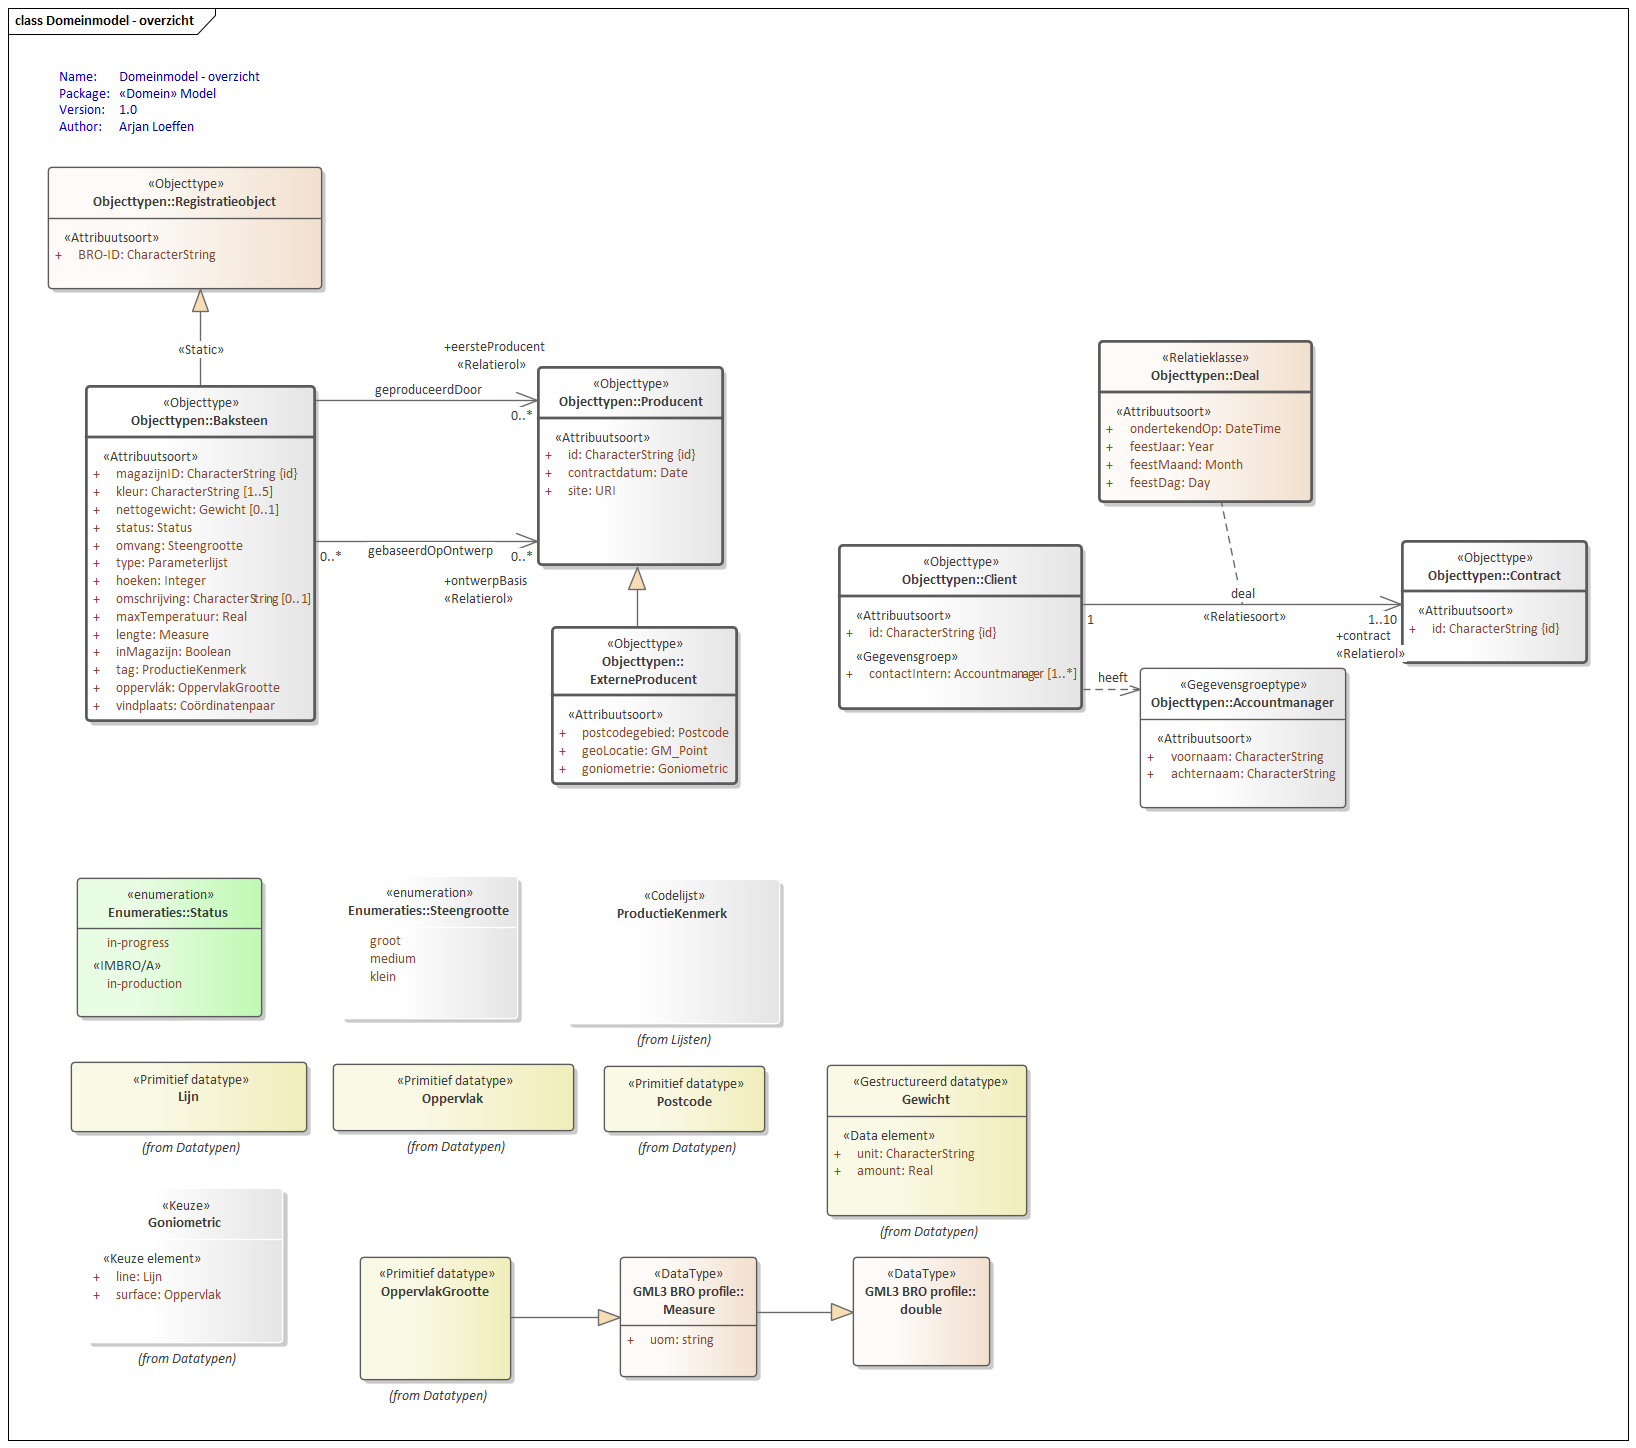
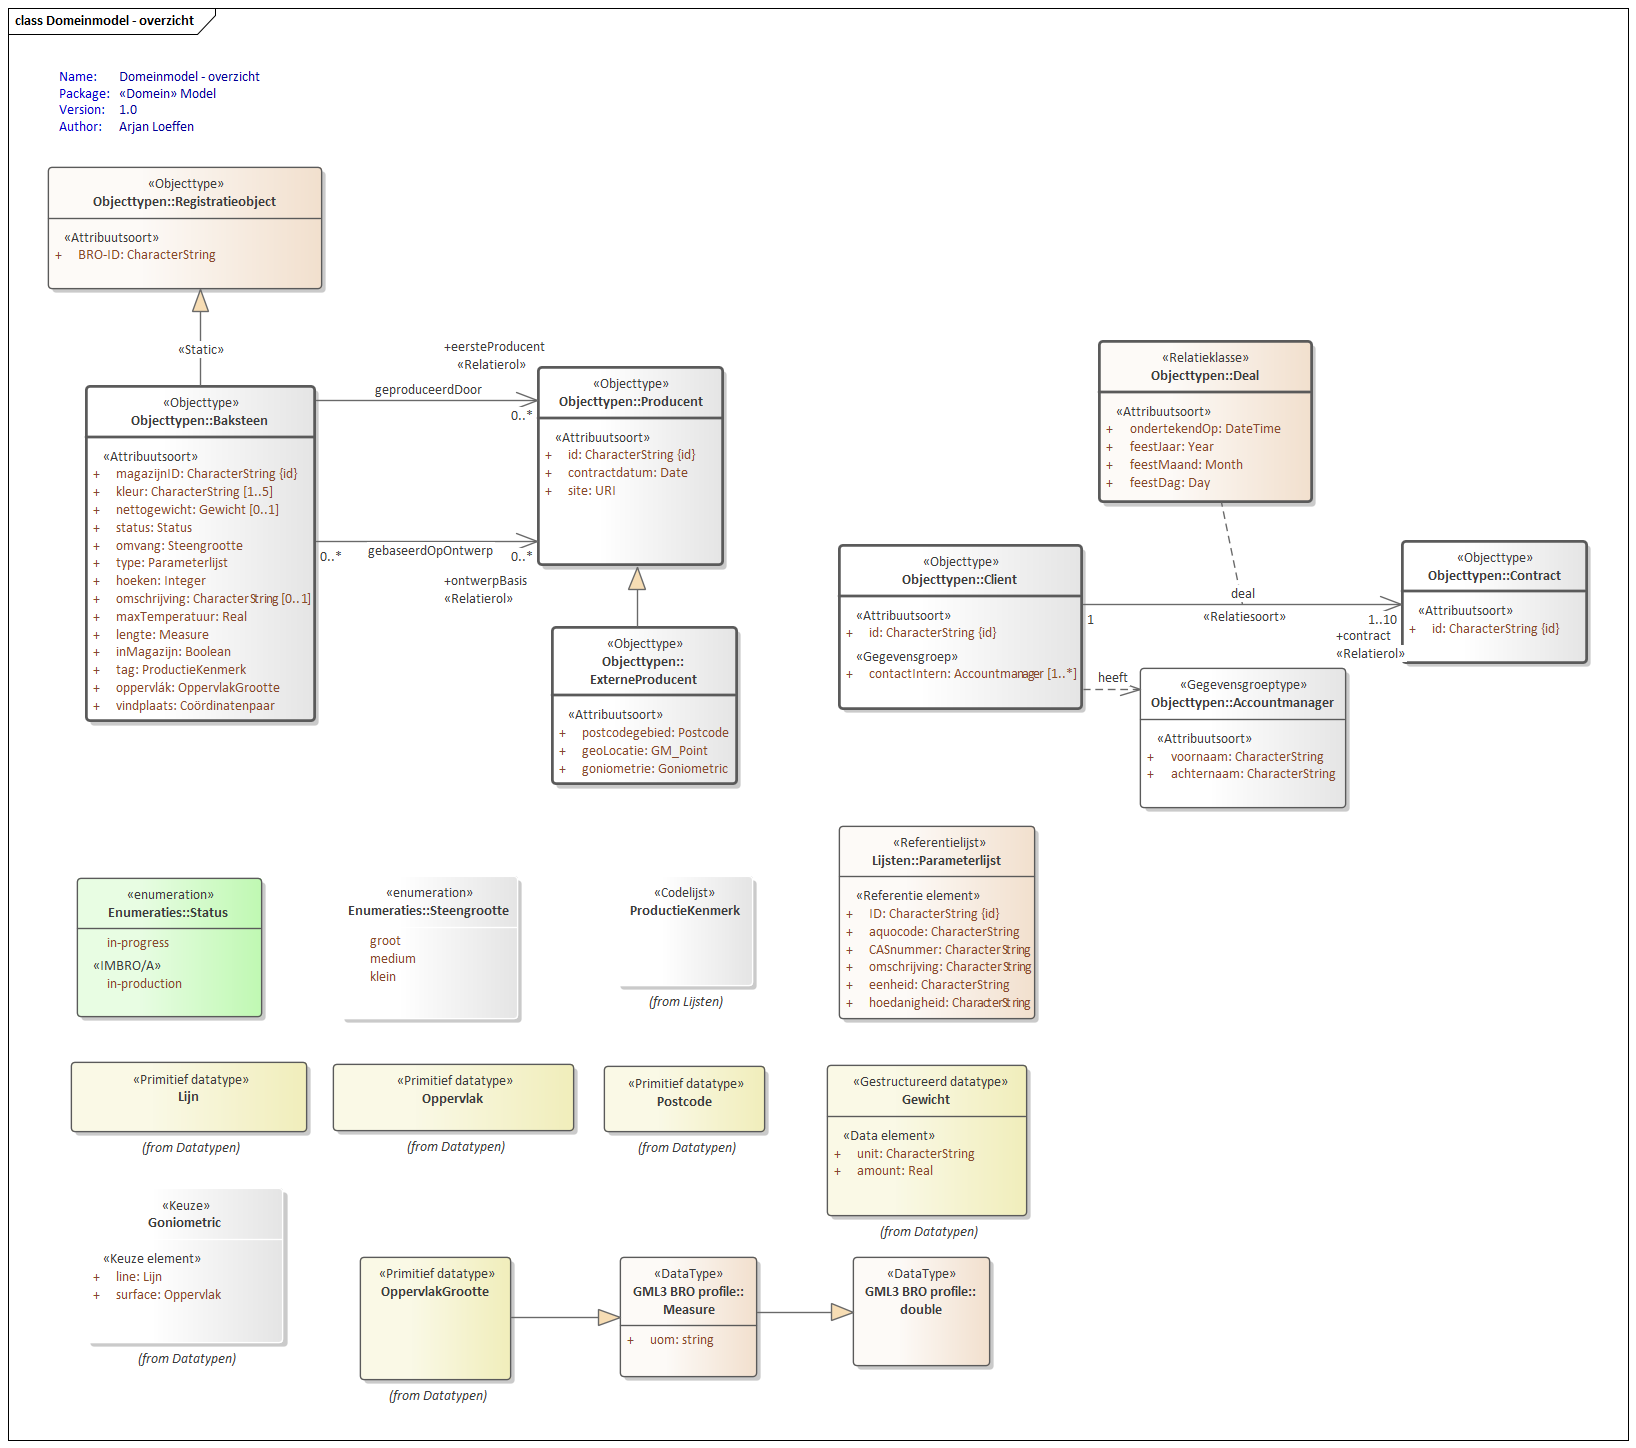
Conceptualmodel-SampleBaseSAMPLE-1.0.0-2-20130318-20200321-095228

Changed region(s): [[0.53, 0.5594, 0.6546, 0.7148], [0.3741, 0.5905, 0.4988, 0.7459]]

diff --git a/data/SAMPLE-cat.msword.html b/data/SAMPLE-cat.msword.html
@@ -13,7 +13,7 @@
    <body>
       <p>Conceptual model/SampleBase (SAMPLE)/20130318</p>
       <p>Imvertor: 1.59.3</p>
-      <p>Model release: Conceptualmodel-SampleBaseSAMPLE-1.0.0-2-20130318-20200320-155542</p>
+      <p>Model release: Conceptualmodel-SampleBaseSAMPLE-1.0.0-2-20130318-20200321-095228</p>
       <hr>
       <section>
          <h1>Artikel 1 Definitie van registratieobject, entiteiten en attributen</h1>
@@ -54,8 +54,9 @@
             <h2>Het domeinmodel</h2>
             <section id="">
                <div class="imageinfo overview"><img src="Images/EAID_08513AA0_8A50_46c1_AD86_9B80D9A6AAE1.png" usemap="#imagemap-EAID_08513AA0_8A50_46c1_AD86_9B80D9A6AAE1" alt="Diagram Overzicht van alle constructies in dit conceptuele model."><map name="imagemap-EAID_08513AA0_8A50_46c1_AD86_9B80D9A6AAE1">
+                     <area shape="rect" alt="ProductieKenmerk" coords="616,876,753,986" href="#graph_EAID_4D78F0AD_88ED_44ef_9A76_163426CD74D1">
+                     <area shape="rect" alt="Parameterlijst" coords="839,826,1035,1019" href="#graph_EAID_44AEBC38_4744_431f_B31C_D809E3AA7D52">
                      <area shape="rect" alt="Registratieobject" coords="48,167,322,289" href="#graph_EAID_9E9289AB_19E6_48af_87FD_8BC9E0875C28">
-                     <area shape="rect" alt="ProductieKenmerk" coords="565,879,780,1024" href="#graph_EAID_4D78F0AD_88ED_44ef_9A76_163426CD74D1">
                      <area shape="rect" alt="Steengrootte" coords="340,876,518,1019" href="#graph_EAID_65363897_E229_41fd_BE6F_E6B1BACAD458">
                      <area shape="rect" alt="Accountmanager" coords="1140,668,1346,808" href="#graph_EAID_29D6B892_B943_494c_94C7_A13DB031E998">
                      <area shape="rect" alt="Status" coords="77,878,262,1017" href="#graph_EAID_E86D21EE_58FD_4975_9CCB_AFF2434704A8">
